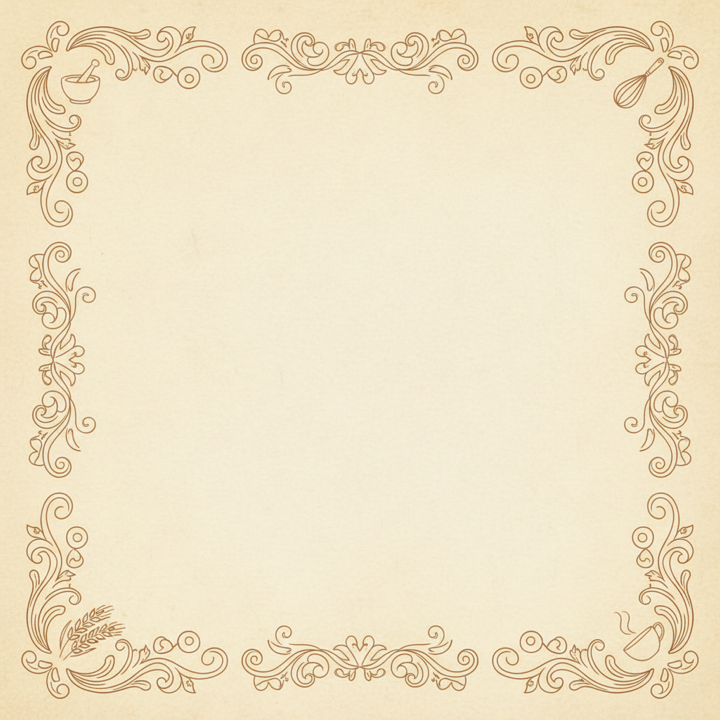
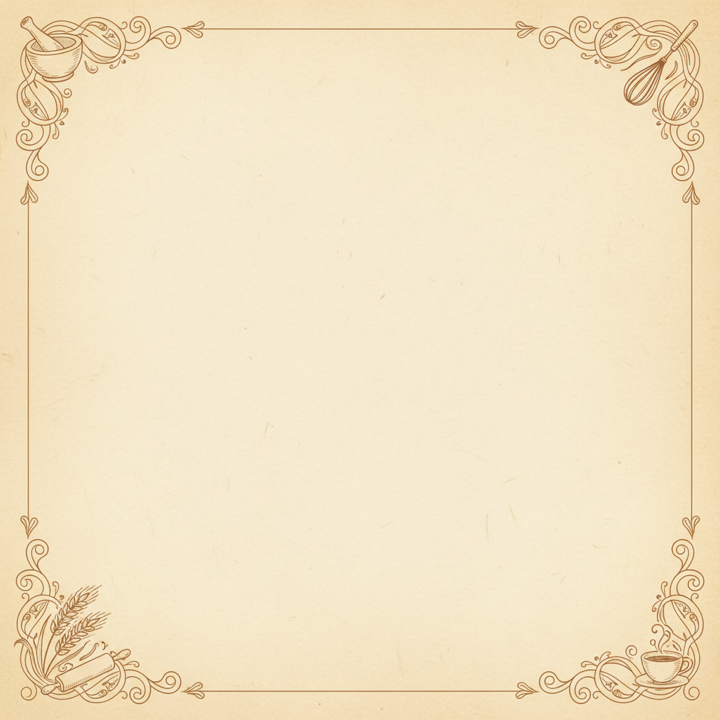
refine(ambient): converge on reusable prompt formula + regen coffee-intro
Codified the prompt pattern that produces directly-usable output in 1-2
generations into _TEMPLATE.md §10.2:

- Pattern 1: motifs INTO the line work (not beside) — the kitchen tools
  ARE the filigree itself
- Pattern 2: frame < 10% of image area — thin, elegant, doesn't compete
  with cards
- Anti-pattern: text, watermarks, logo marks explicitly in NEGATIVE
- Anti-pattern: center focal subject non-negotiable (80%+ empty cream)
- Anti-pattern: literal scene-object placement inside the frame

Also documents the known limitation that Gemini 2.5 Flash Image (via
nano-banana) ignores aspect-ratio directives. This is fine because
NinePatchRect's 9-slice handles the viewport-aspect mismatch at runtime
— source aspect doesn't need to match the viewport, only the corner
ornaments need to be compact enough to survive the patch_margin crop.

Regenerated coffee-intro.png using the refined prompt:
- mortar-and-pestle top-left integrated into scrollwork
- whisk top-right woven into vine curl
- wheat stalk + rolling pin bottom-left
- coffee cup with steam curl bottom-right
- very thin filigree, very clean empty centre
- ~715 KB after sips -Z 720

Changed region(s): [[0.0, 0.0, 0.9778, 0.9778]]

diff --git a/design/scenes/_TEMPLATE.md b/design/scenes/_TEMPLATE.md
@@ -174,39 +174,60 @@ full background, but new scenes should default to `"full_viewport"`.
 - **Forbidden**: motifs that steal attention from cards (heavy ink,
   high contrast, saturated colour, animation)
 
-**Reusable nano-banana prompt template** (fill in `{SCENE_CONCEPT}` +
-`{CORNER_MOTIFS}` and run):
+**Reusable nano-banana prompt — proven to converge on directly-usable
+output in 1–2 generations.** Fill in `{SCENE_CONCEPT}` +
+`{CORNER_MOTIFS}` and run:
 
 ```
-Ornamental parchment background plate for a card game — wide landscape
-aspect ratio. Aged warm cream parchment paper texture as the base
-(#F4EEDE with very subtle tonal variation, no gradients, no strong
-color blocks). Fine-line ornamental filigree border frames the full
-rectangle in thin warm brown ink — scrollwork, vine curls, leaves.
-Decorative corner flourishes SUBTLY weave in abstracted {SCENE_CONCEPT}
-concepts as stylized line-art hints only: {CORNER_MOTIFS}, all rendered
-as if they are PART of the ornamental filigree itself, NOT placed as
-separate objects. The center 70% of the image is completely empty cream
-parchment with very subtle paper texture only — this is the gameplay
-surface where cards will sit. Overall feeling: vintage recipe book title
-plate, ornate but understated, like a tarot card back or medieval herbal
-manuscript frontispiece. Ink is soft warm brown, never black, never
-harsh.
+Wide landscape 1440×900 (16:10) ornamental parchment game background
+plate. Aged warm cream parchment paper (#F4EEDE base) with subtle
+texture. Thin refined warm-brown ink filigree frame along all four
+edges — the frame occupies LESS THAN 10% of the total image area
+(thin and elegant, not heavy). The four corner flourishes subtly
+integrate {SCENE_CONCEPT} concepts INTO the line work itself — the
+motifs ARE the ornament, not placed beside it: {CORNER_MOTIFS}.
+Center 80%+ of the image is completely empty warm parchment with
+subtle paper grain only — no focal subject, no objects, no gradient.
+This is the gameplay surface.
 
 NEGATIVE: text, letters, numbers, words, names, signatures, watermarks,
-any center focal subject, literal objects placed in the middle, strong
-color blocks, photographic realism, 3D render, perspective, deep shadows,
-human figures, modern UI elements, busy loud patterns, gradient fills
-in the center, heavy dark ink, anime, cyberpunk, neon, pixel art. The
-center MUST remain empty parchment — if it is not empty the image fails.
+logo marks, any center focal subject, literal objects placed in the
+middle, heavy ornament covering more than 10% of image area, strong
+color blocks, gradient fills in center, photographic realism, 3D
+render, perspective, deep shadows, human figures, modern UI elements,
+busy loud patterns, heavy dark ink, anime, cyberpunk, neon, pixel art,
+square aspect, portrait orientation.
 ```
 
-Example fill — coffee-intro:
-- `{SCENE_CONCEPT}`: *kitchen-morning*
-- `{CORNER_MOTIFS}`: *a tiny mortar-and-pestle silhouette in one corner,
-  a small whisk curl in another, a sheaf of coffee beans / wheat stalk
-  as a curving line in a third corner, a minimalist steam curl or coffee
-  cup edge suggestion in the fourth*
+### Prompt rules (why this works)
+
+- **Pattern**: 場景概念融入 filigree 線條 → the kitchen tools ARE the
+  ornament, not placed beside it
+- **Pattern**: 編筐 < 10% 畫面比例 → thin, elegant, doesn't compete
+  with cards
+- **Anti-pattern**: 出現文字 / 浮水印 → explicitly in NEGATIVE
+- **Anti-pattern**: 中央干擾主視覺 → 80%+ empty cream is non-negotiable
+- **Anti-pattern**: 直接按照場景把東西擺在編筐 → phrased "INTO the line
+  work itself" + "NOT placed beside"
+
+### Known limitation
+
+Gemini 2.5 Flash Image (via nano-banana) **does not reliably honour
+aspect-ratio directives** — expect a ~square output even when 16:10 is
+stated multiple times. This is handled at runtime by rendering through
+`NinePatchRect` with `patch_margin_* = 180`: the four ornamental
+corners stay pixel-perfect and the centre + edges stretch to whatever
+aspect the viewport actually is. So the image doesn't need to match
+the viewport aspect — just keep the filigree corners reasonably compact
+within the source PNG.
+
+### Example fill — coffee-intro
+
+- `{SCENE_CONCEPT}`: kitchen-morning
+- `{CORNER_MOTIFS}`: top-left = mortar-and-pestle woven into the
+  scrollwork, top-right = whisk blending with vine curl, bottom-left =
+  wheat stalk and rolling pin emerging from filigree, bottom-right =
+  coffee cup with a steam curl integrated into the flourish
 
 **Code wiring** (live in `src/ui/ambient_indicator.gd` — see
 `production/epics/scene-composition/story-006`):
